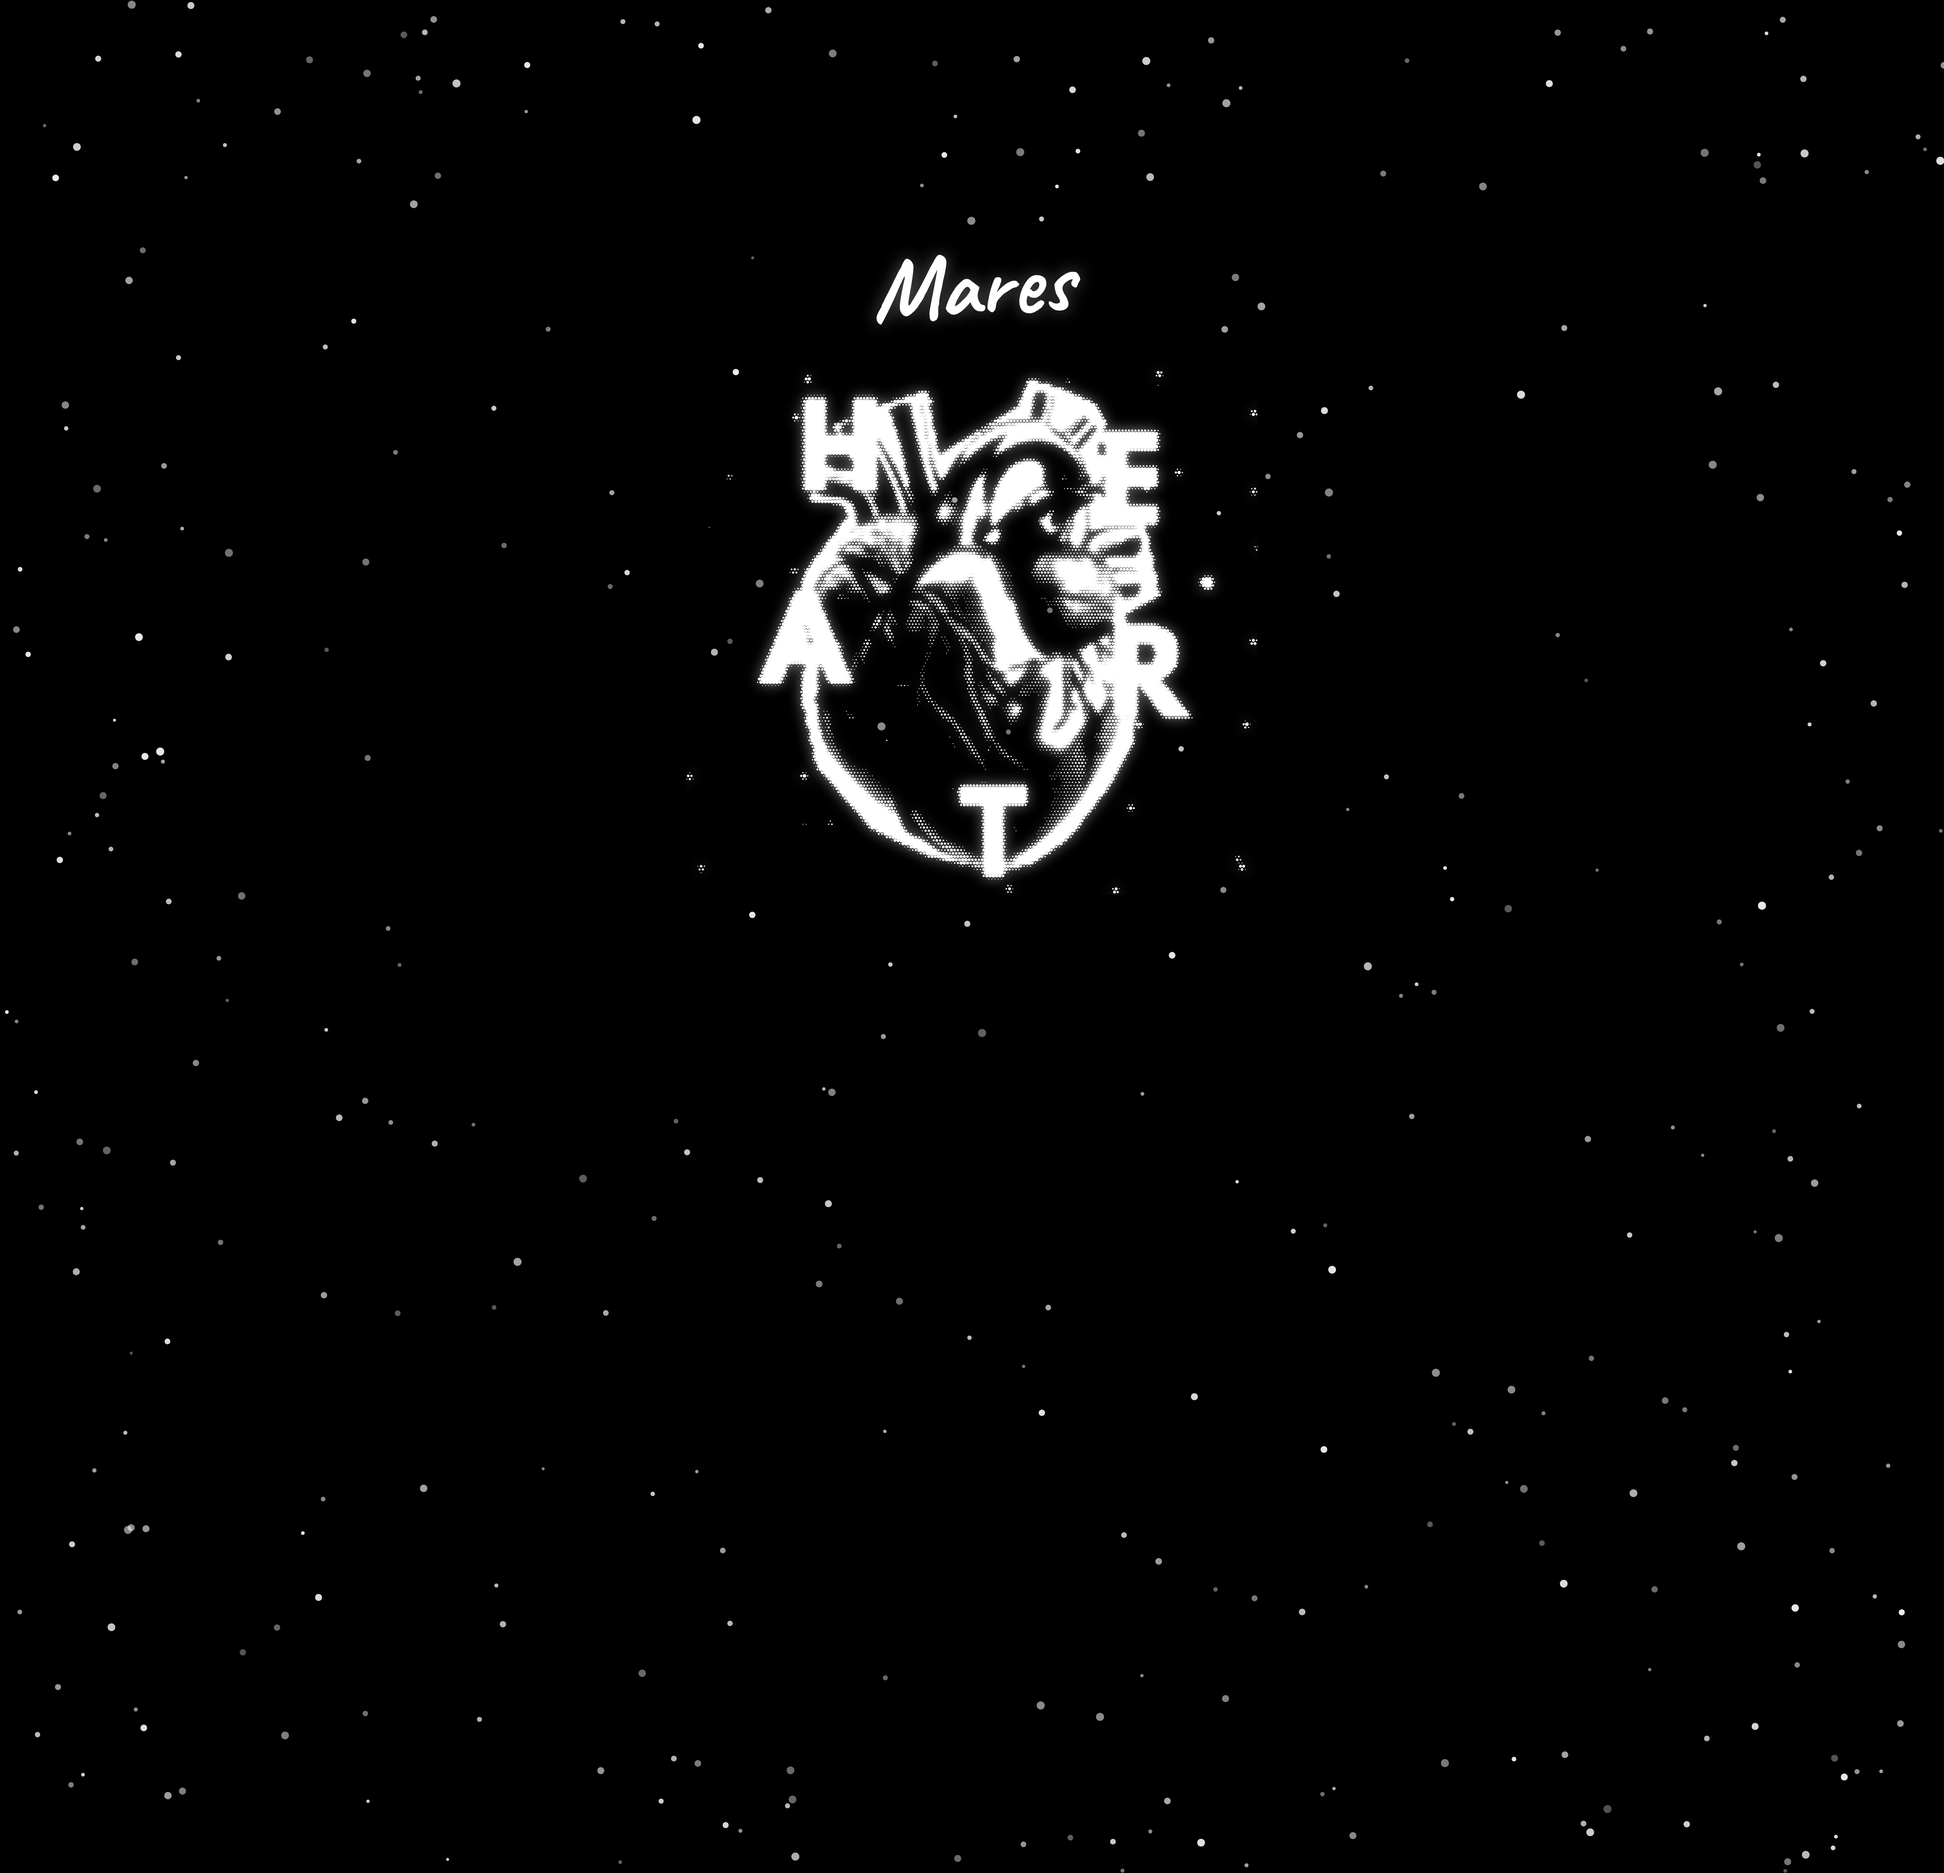
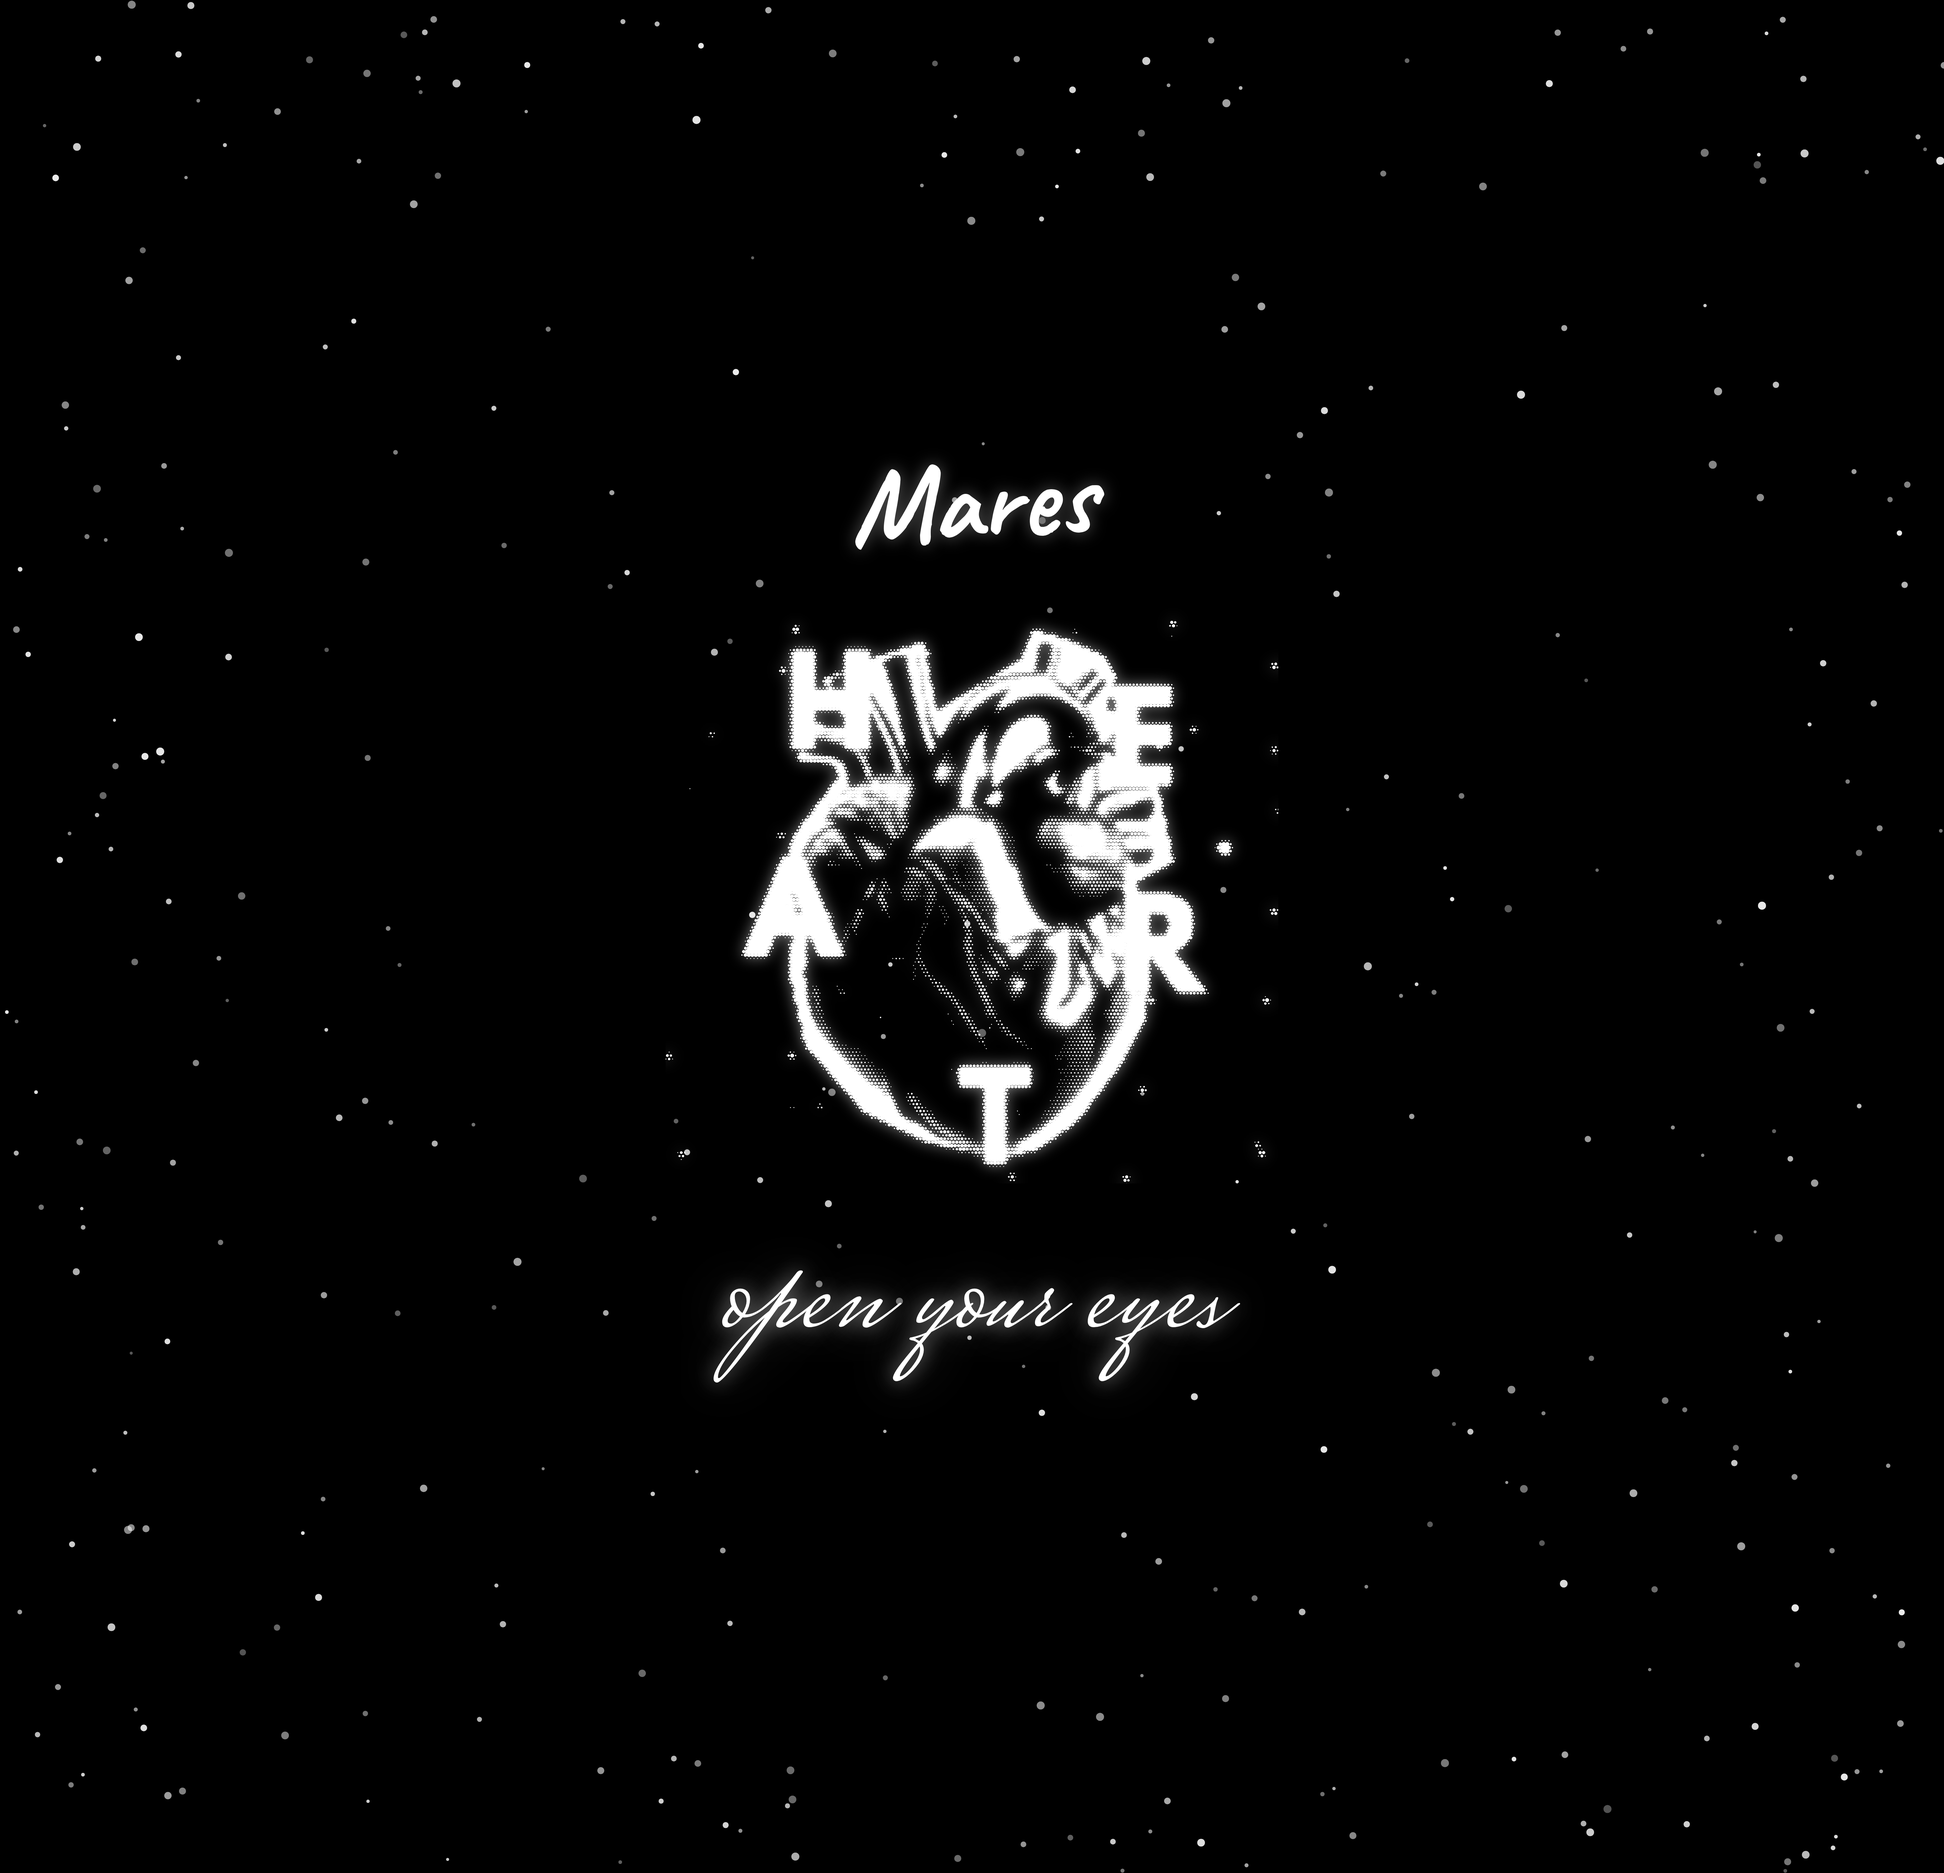
Recompose fronts for the pocket-free hoodie
No pocket means the whole front panel is usable, so the artwork moves
down into the chest and grows, and 'open your eyes' returns to the front
below it. The signature drops to 24% because this garment's collar cuts
deeper — at the old 13% it vanished into the neck opening on the mockup.
Letters sit ~90-120px clear of the artwork's opaque edge so both glyphs
of LI and DI stay readable.

Claude-Session: https://claude.ai/code/session_01CMmd7hHney9Uuvu8uMddpz

Changed region(s): [[0.3745, 0.1245, 0.6241, 0.6225], [0.3433, 0.6848, 0.6241, 0.747]]

diff --git a/designs/print-ready/PRINTFUL_AOP_HOODIE.md b/designs/print-ready/PRINTFUL_AOP_HOODIE.md
@@ -38,24 +38,26 @@ the hood, one mirrored on the right. The inside lining stays stars.
 The label panel is a small crescent, so it carries just the **Mares**
 signature, centred where the woven label sits.
 
-## The kangaroo pocket eats the lower front
+## Built for the pocket-free hoodie
 
-The pocket is sewn over the front panel from about **48% of the canvas
-height** downwards, so anything below that line is hidden once the hoodie
-is assembled. The first version put the statue across that line and only
-its head and shoulders stayed visible.
+The current fronts assume a hoodie **without a kangaroo pocket**, so the
+whole panel is usable. Layout, as a fraction of canvas height:
 
-Every front now keeps the signature, the artwork and the letters inside
-the band between the safe-area top (11.5%) and the pocket line (48%), so
-the whole motif reads on the finished garment. Below the pocket line the
-file is stars only — that area still needs printing, it just isn't seen.
+| Element | Position |
+|---|---|
+| collar reaches down to | 20% — nothing above this or it lands in the neck |
+| signature `Mares` | 24% |
+| artwork | 32.5% – 63% |
+| `open your eyes` | 66% |
+| safe area ends | 76% |
 
-## Why the fronts have no bottom text
+On the earlier pocket version the pocket covered everything below 48% and
+the artwork was half hidden. If you ever switch back to a pocket hoodie,
+say so and I'll re-drop the artwork into the 11.5%–48% band.
 
-The bottom ~20% of the front canvas is the hem band, folded under at the
-"Folding line". Text placed there printed a second "open your eyes" on
-the hem, right below the one on the pocket. The script now lives only on
-the pocket; the hem is stars.
+The four letters sit ~90–120 px clear of the artwork's edges. The artwork
+is an opaque rectangle, so letters tucked under it disappear — they have
+to sit beside it, not behind it.
 
 ## Notes
 
